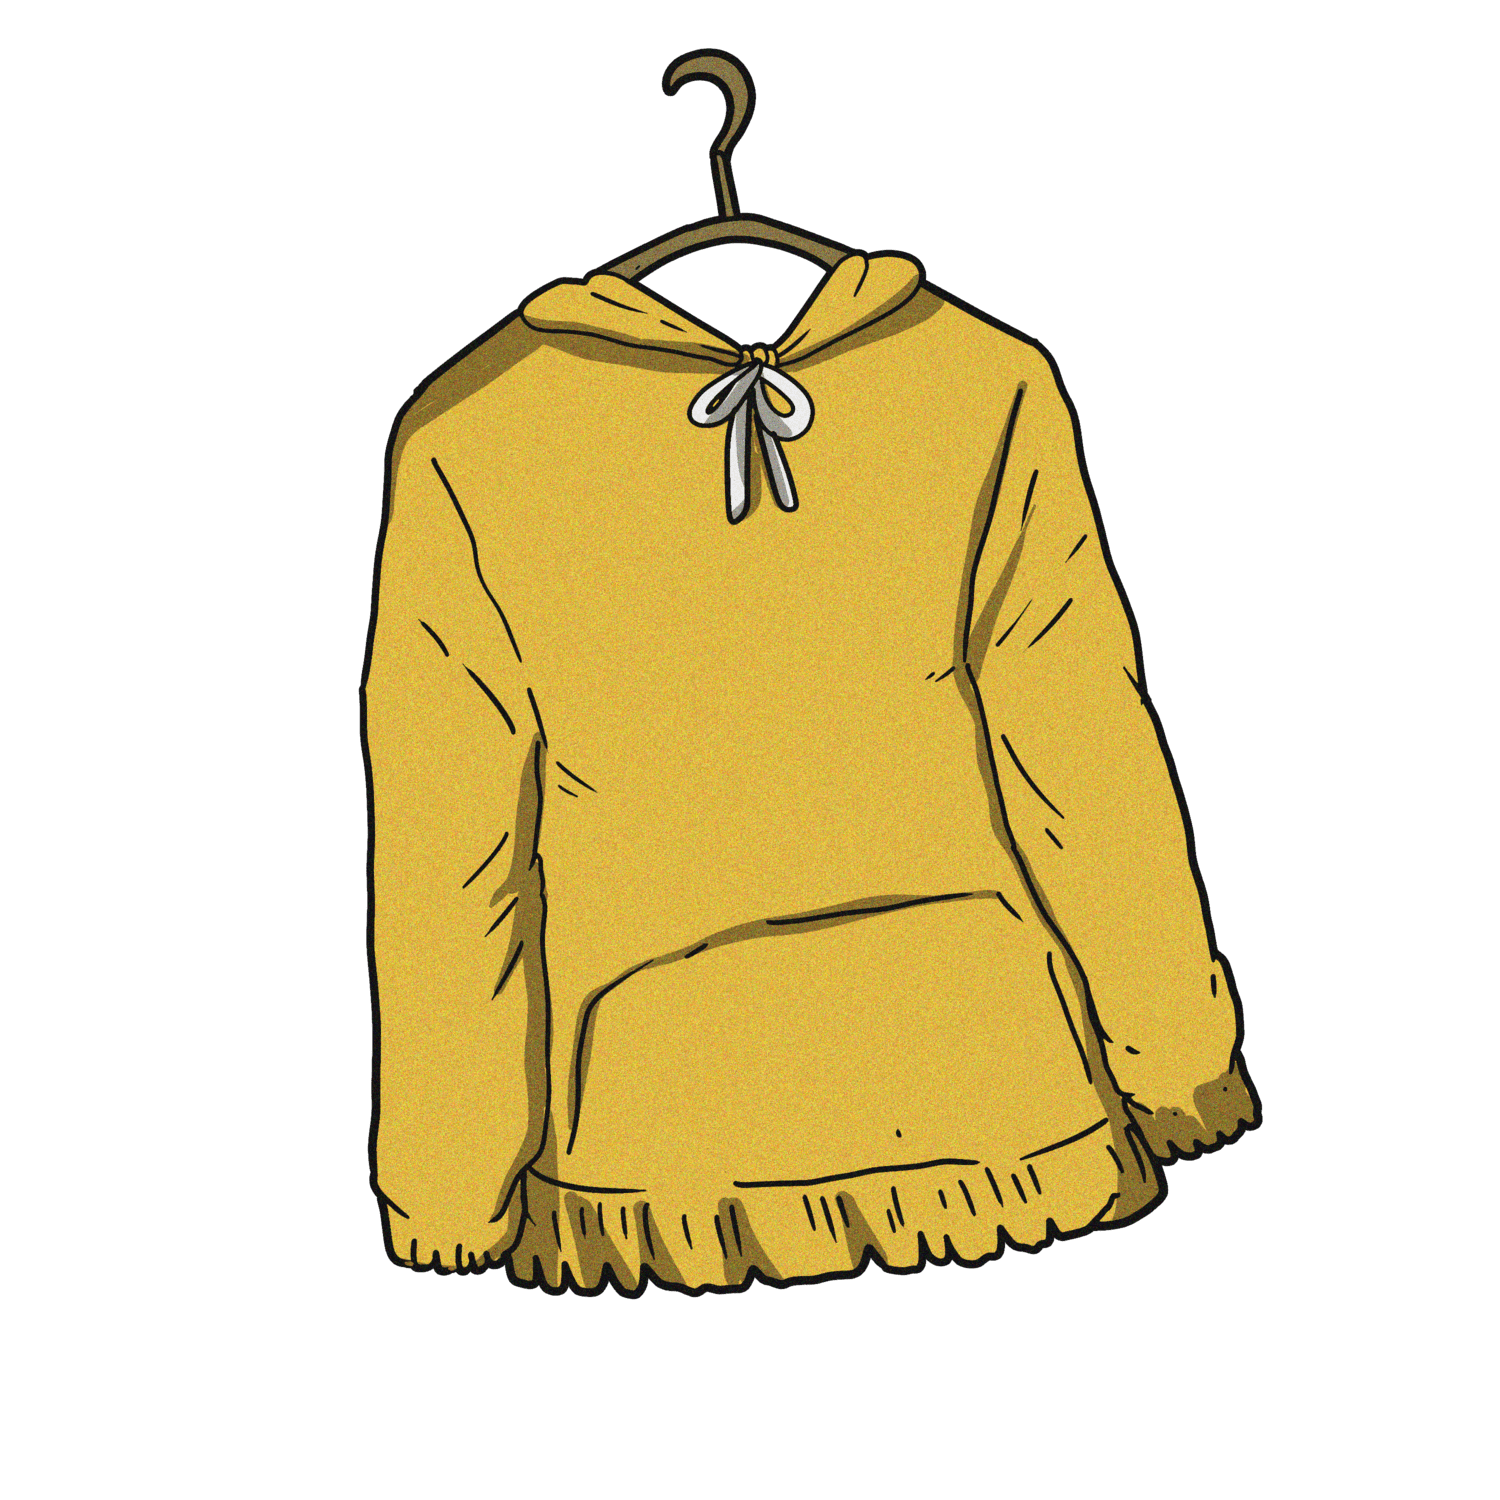
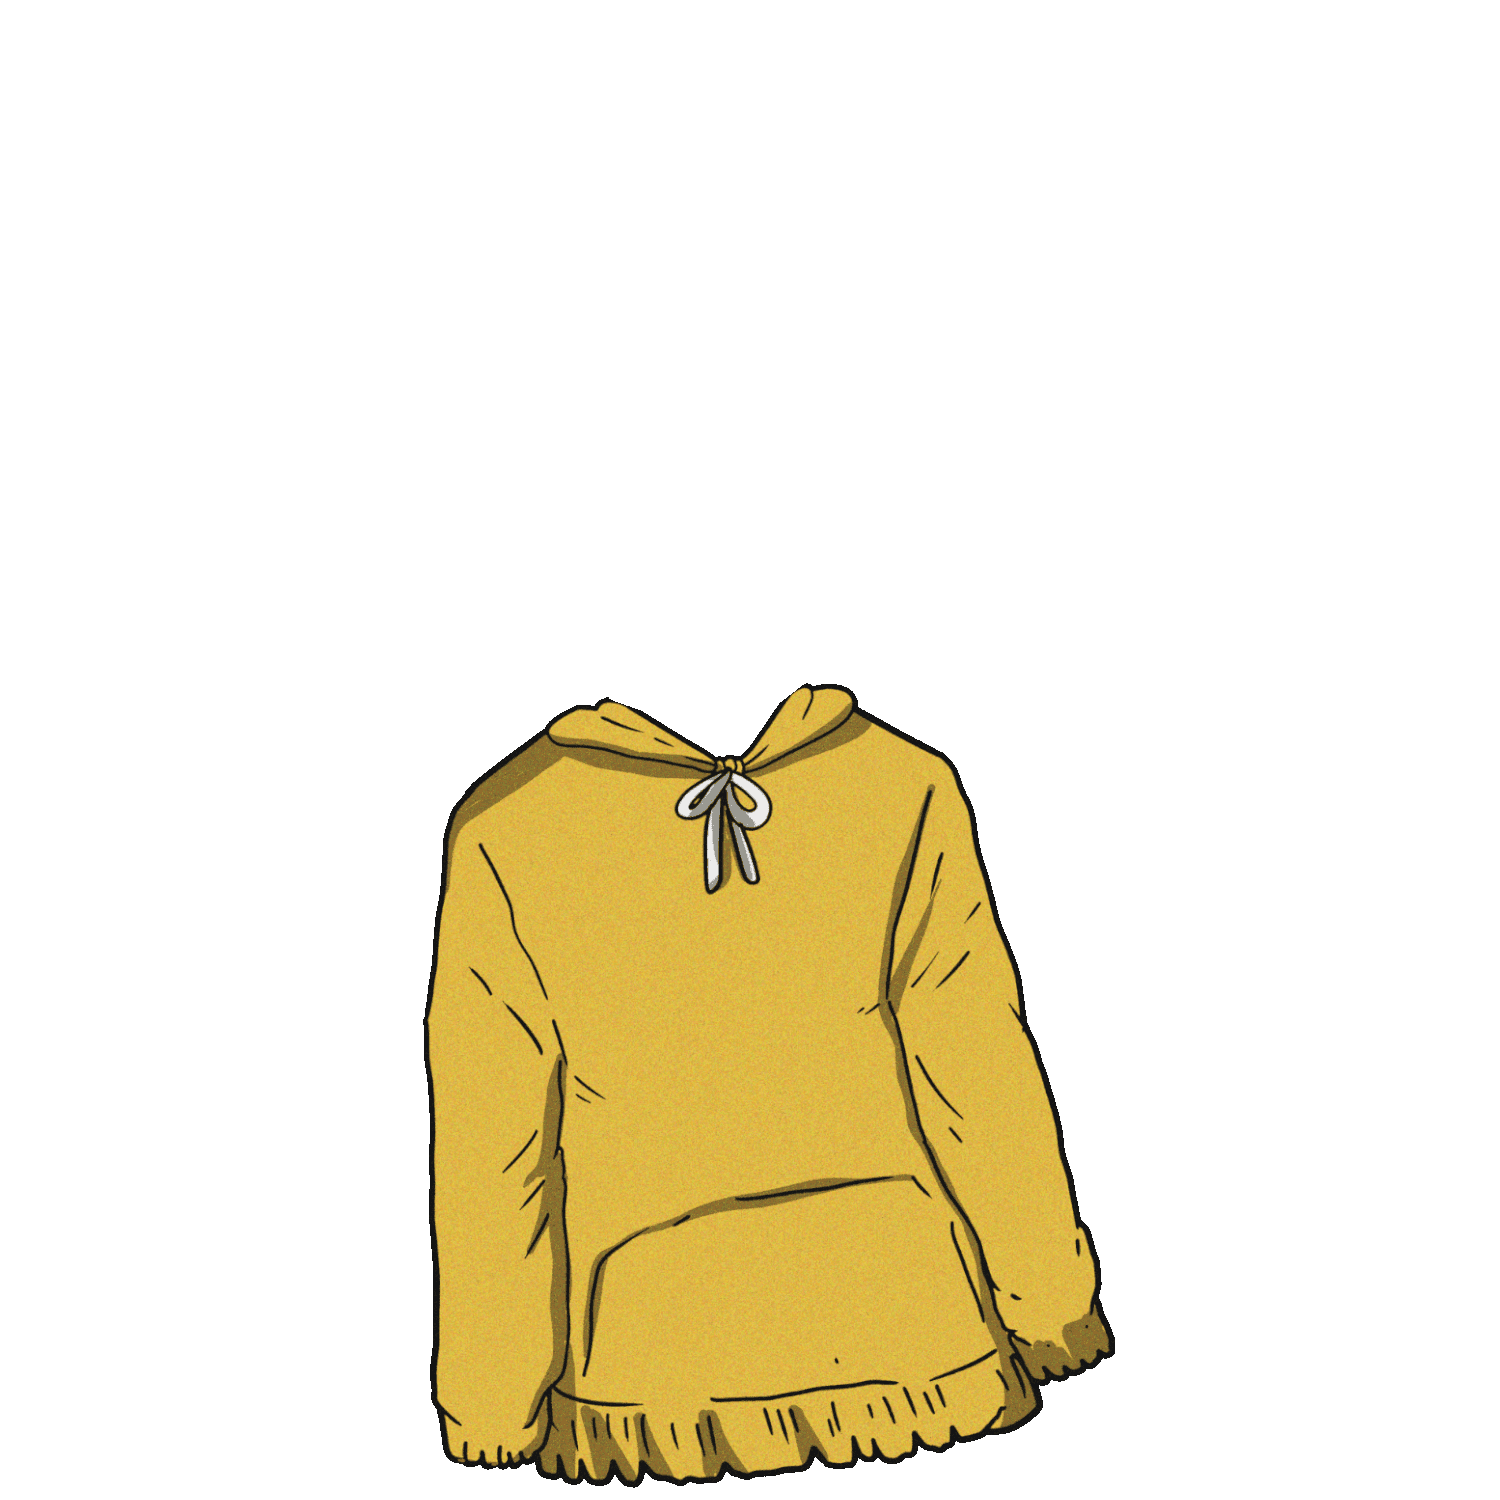
footer update and character responsive

diff --git a/index.html b/index.html
@@ -3,6 +3,7 @@
   <head>
     <meta charset="UTF-8" />
     <meta name="viewport" content="width=device-width, initial-scale=1.0" />
+    <meta http-equiv="cache-control" content="no-cache" />
     <title>Indekos Game</title>
 
     <link
@@ -358,12 +359,26 @@
             <div class="teams__clothesline-storyboard">
               <img
                 id="teams__storyboard"
-                class="teams__clothes teams__clothes-anim__2"
-                src="./assets/img/staff-image/5.png"
+                class="teams__clothes"
+                src="./assets/img/staff-image/8.png"
                 alt=""
               />
               <img
-                class="teams__tongs"
+                class="teams__tongs-1"
+                src="./assets/img/staff-image/2.png"
+                alt=""
+              />
+              <img
+                class="teams__tongs-2"
+                src="./assets/img/staff-image/2.png"
+                alt=""
+              /><img
+                class="teams__tongs-1"
+                src="./assets/img/staff-image/2.png"
+                alt=""
+              />
+              <img
+                class="teams__tongs-2"
                 src="./assets/img/staff-image/2.png"
                 alt=""
               />
@@ -373,7 +388,7 @@
                 id="teams__3d"
                 class="teams__clothes teams__clothes-anim__1"
                 style="animation-duration: 1.8s"
-                src="./assets/img/staff-image/6.png"
+                src="./assets/img/staff-image/9.png"
                 alt=""
               />
               <img
@@ -442,6 +457,31 @@
             draggable="false"
             alt="Footer"
           />
+          <div class="row mx-5 px-md-5">
+            <div class="col-6 d-flex justify-content-start align-items-center">
+              <span
+                >Copyright
+                <a
+                  class="link-cursor"
+                  href="https://roleplaystudio.com"
+                  target="_blank"
+                  >Roleplay Studio</a
+                >
+                2023</span
+              >
+            </div>
+            <div class="col-6 d-flex justify-content-end">
+              <span
+                >Developed by
+                <a
+                  class="link-cursor"
+                  href="https://www.instagram.com/bn.tang"
+                  target="_blank"
+                  >Ananda Bintang Saputra</a
+                ></span
+              >
+            </div>
+          </div>
         </footer>
       </section>
 

diff --git a/assets/css/style.css b/assets/css/style.css
@@ -582,8 +582,8 @@ nav img {
   .teams__clothesline-3d
   .teams__clothes {
   width: 30%;
-  top: 55%;
-  left: 68%;
+  top: 53.5%;
+  left: 68.5%;
   z-index: 1;
 }
 
@@ -591,10 +591,21 @@ nav img {
   .teams-container
   .teams__clothesline
   .teams__clothesline-storyboard
-  .teams__tongs {
+  .teams__tongs-1 {
   width: 11%;
   top: 56%;
-  left: 27.5%;
+  left: 25.5%;
+  z-index: 2;
+}
+
+#teams
+  .teams-container
+  .teams__clothesline
+  .teams__clothesline-storyboard
+  .teams__tongs-2 {
+  width: 11%;
+  top: 56%;
+  left: 30.5%;
   z-index: 2;
 }
 
@@ -603,9 +614,9 @@ nav img {
   .teams__clothesline
   .teams__clothesline-storyboard
   .teams__clothes {
-  width: 30%;
-  top: 50%;
-  left: 18%;
+  width: 40%;
+  top: 46%;
+  left: 13%;
   z-index: 1;
 }
 
@@ -653,14 +664,15 @@ nav img {
 
 #social-medias .phone-container .social-media__phone-handle {
   position: relative;
+  transform: translateY(7%);
   left: 3%;
   width: 30%;
   z-index: 2;
 }
 
 #social-medias .phone-container .social-media__phone-main {
-  position: relative;
-  transform: translateY(-166%);
+  position: absolute;
+  transform: translateY(-200%);
   left: 20%;
   width: 11%;
   z-index: 2;
@@ -674,17 +686,17 @@ nav img {
 }
 
 #social-medias .phone-container .social-media__icon-instagram {
-  top: 10%;
+  top: 15%;
   left: 22%;
 }
 
 #social-medias .phone-container .social-media__icon-youtube {
-  top: 10%;
+  top: 15%;
   left: 26%;
 }
 
 #social-medias .phone-container .social-media__icon-whatsapp {
-  top: 18%;
+  top: 25%;
   left: 22%;
 }
 
@@ -699,11 +711,28 @@ nav img {
   left: 45%;
 }
 
-.footer-background {
+footer .footer-background {
   position: absolute;
   width: 100vw;
-  top: 45%;
+  top: 75%;
   z-index: 5;
+}
+
+footer span {
+  position: relative;
+  font-family: "bakso_sapiregular";
+  font-size: 1.5rem;
+  text-align: center;
+  top: 40%;
+  z-index: 6;
+}
+
+footer span a {
+  text-decoration: none;
+}
+
+footer span a:hover {
+  text-decoration: underline;
 }
 
 .page-progress {
@@ -1194,5 +1223,9 @@ nav img {
 
   #character .character-kos {
     min-height: 10rem;
+  }
+
+  footer span {
+    font-size: 0.4rem;
   }
 }

diff --git a/assets/css/character-style.css b/assets/css/character-style.css
@@ -24,6 +24,7 @@ body {
   display: flex;
   justify-content: center;
   align-items: center;
+  overflow: hidden;
 }
 
 nav img {
@@ -34,8 +35,11 @@ nav img {
 
 .character-background {
   position: absolute;
-  height: 100%;
-  width: 100%;
+  display: flex;
+  justify-content: center;
+  align-items: center;
+  height: 100vh;
+  width: 100vw;
 }
 
 .slider-container {
@@ -116,16 +120,8 @@ nav img {
   transform: rotate(180deg);
 }
 
-.slider-nav.next:hover {
-  animation: bounce-horizontal-1 1s ease-in-out infinite;
-}
-
 .slider-nav.prev {
   left: -35%;
-}
-
-.slider-nav.prev:hover {
-  animation: bounce-horizontal-2 1s ease-in-out infinite;
 }
 
 .nametag-container {
@@ -213,5 +209,69 @@ nav img {
   }
   100% {
     left: -35%;
+  }
+}
+
+@media (min-width: 992px) {
+  .slider-nav.next:hover {
+    animation: bounce-horizontal-1 1s ease-in-out infinite;
+  }
+
+  .slider-nav.prev:hover {
+    animation: bounce-horizontal-2 1s ease-in-out infinite;
+  }
+}
+
+@media (max-width: 480px) {
+  body {
+    overflow: hidden;
+  }
+
+  nav img {
+    position: absolute !important;
+    top: 85%;
+    left: 35%;
+    width: 25%;
+  }
+
+  .slider-items {
+    height: 40vw;
+    margin: 0;
+    position: relative;
+    list-style-type: none;
+  }
+
+  .slider-items li {
+    position: absolute;
+    width: 70%;
+    height: 50%;
+    top: -100%;
+    left: 50%;
+    z-index: 1;
+    transition: transform 1.4s cubic-bezier(0.19, 1, 0.22, 1), opacity 0.5s;
+  }
+
+  .nametag-container {
+    position: absolute;
+    width: 80%;
+    top: 41%;
+    z-index: 2;
+  }
+
+  .detail-container {
+    position: absolute;
+    width: 100%;
+    top: 53%;
+    left: 25%;
+    z-index: 2;
+  }
+
+  .slider-nav {
+    position: absolute;
+    width: 30%;
+    height: 30%;
+    top: 160%;
+    background-color: transparent;
+    z-index: 1;
   }
 }

diff --git a/assets/js/character.js b/assets/js/character.js
@@ -64,3 +64,22 @@ nav_prev.click(function () {
     selected_item >= 1 ? --selected_item : slider_items.length - 1;
   setItemSlider(selected_item);
 });
+
+const mediaQueryPc = window.matchMedia("(min-width: 992px)");
+const mediaQueryTab = window.matchMedia("(min-width: 500px)");
+if (mediaQueryPc.matches) {
+  $(".character-background").attr(
+    "src",
+    "./assets/img/background/character-border.png"
+  );
+} else if (mediaQueryTab.matches) {
+  $(".character-background").attr(
+    "src",
+    "./assets/img/background/character-border-tablet.png"
+  );
+} else {
+  $(".character-background").attr(
+    "src",
+    "./assets/img/background/character-border-mobile.png"
+  );
+}

diff --git a/character.html b/character.html
@@ -3,6 +3,7 @@
   <head>
     <meta charset="UTF-8" />
     <meta name="viewport" content="width=device-width, initial-scale=1.0" />
+    <meta http-equiv="cache-control" content="no-cache" />
     <title>Character | Indekos Game</title>
     <link
       rel="shortcut icon"
